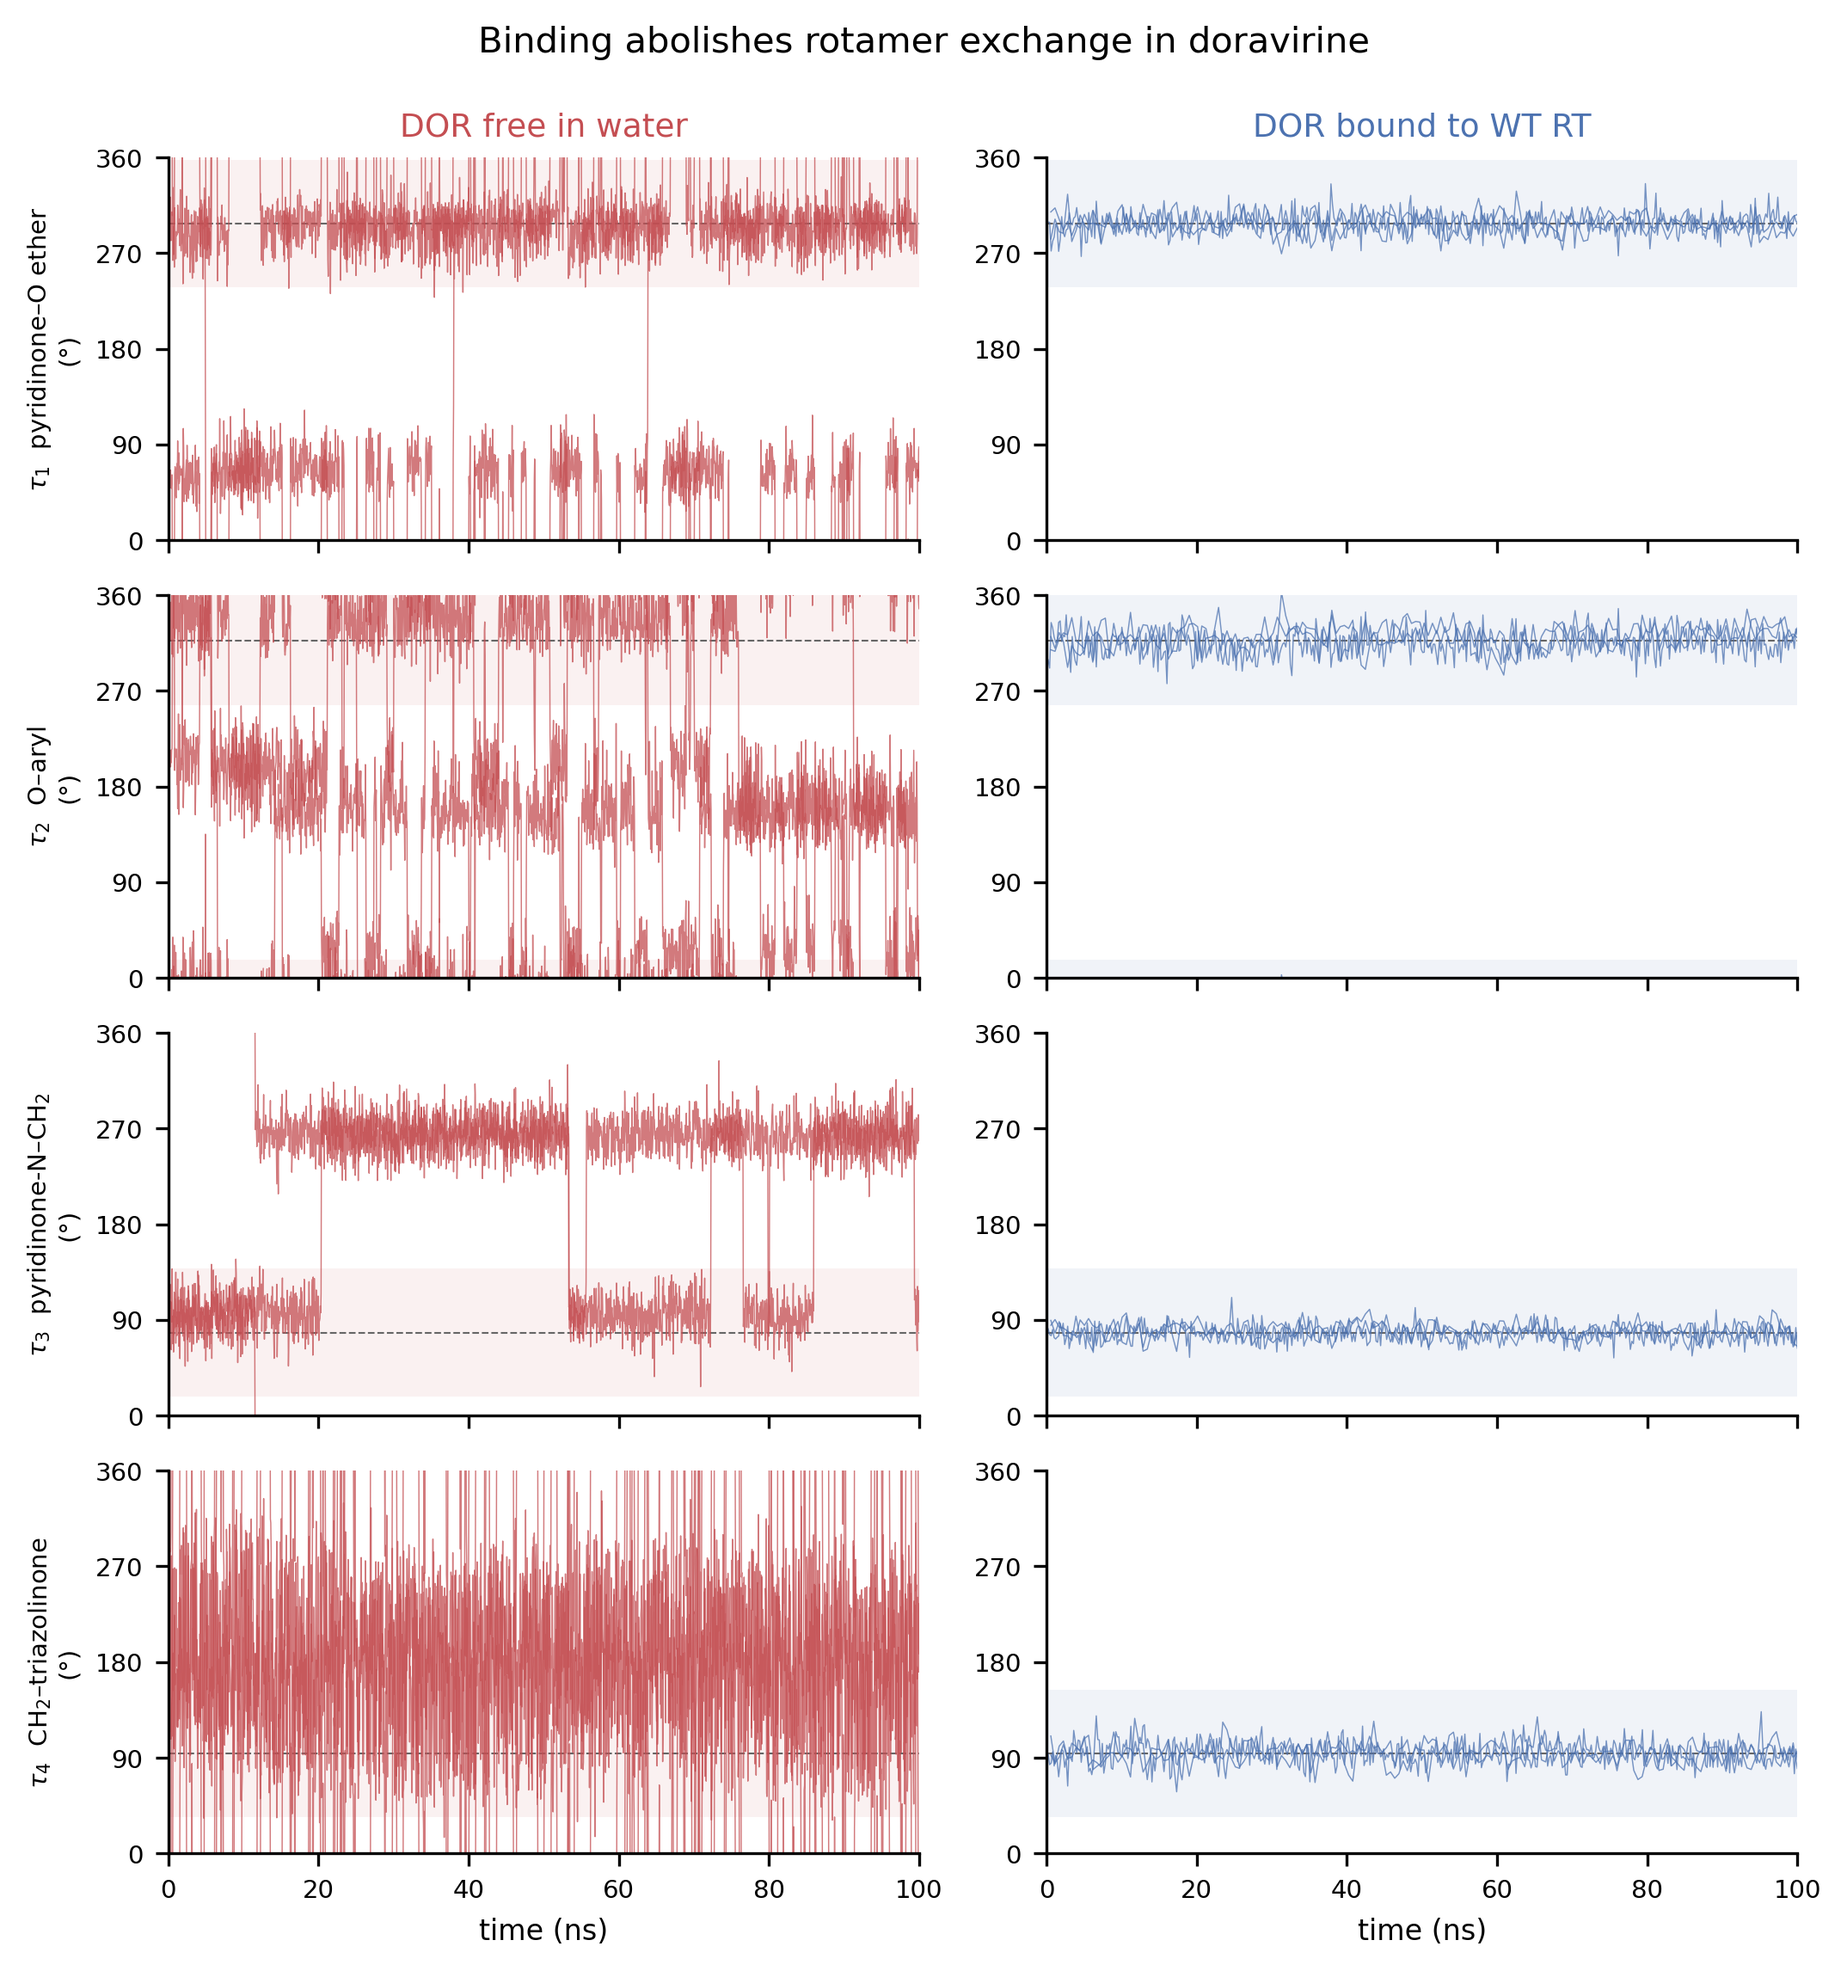
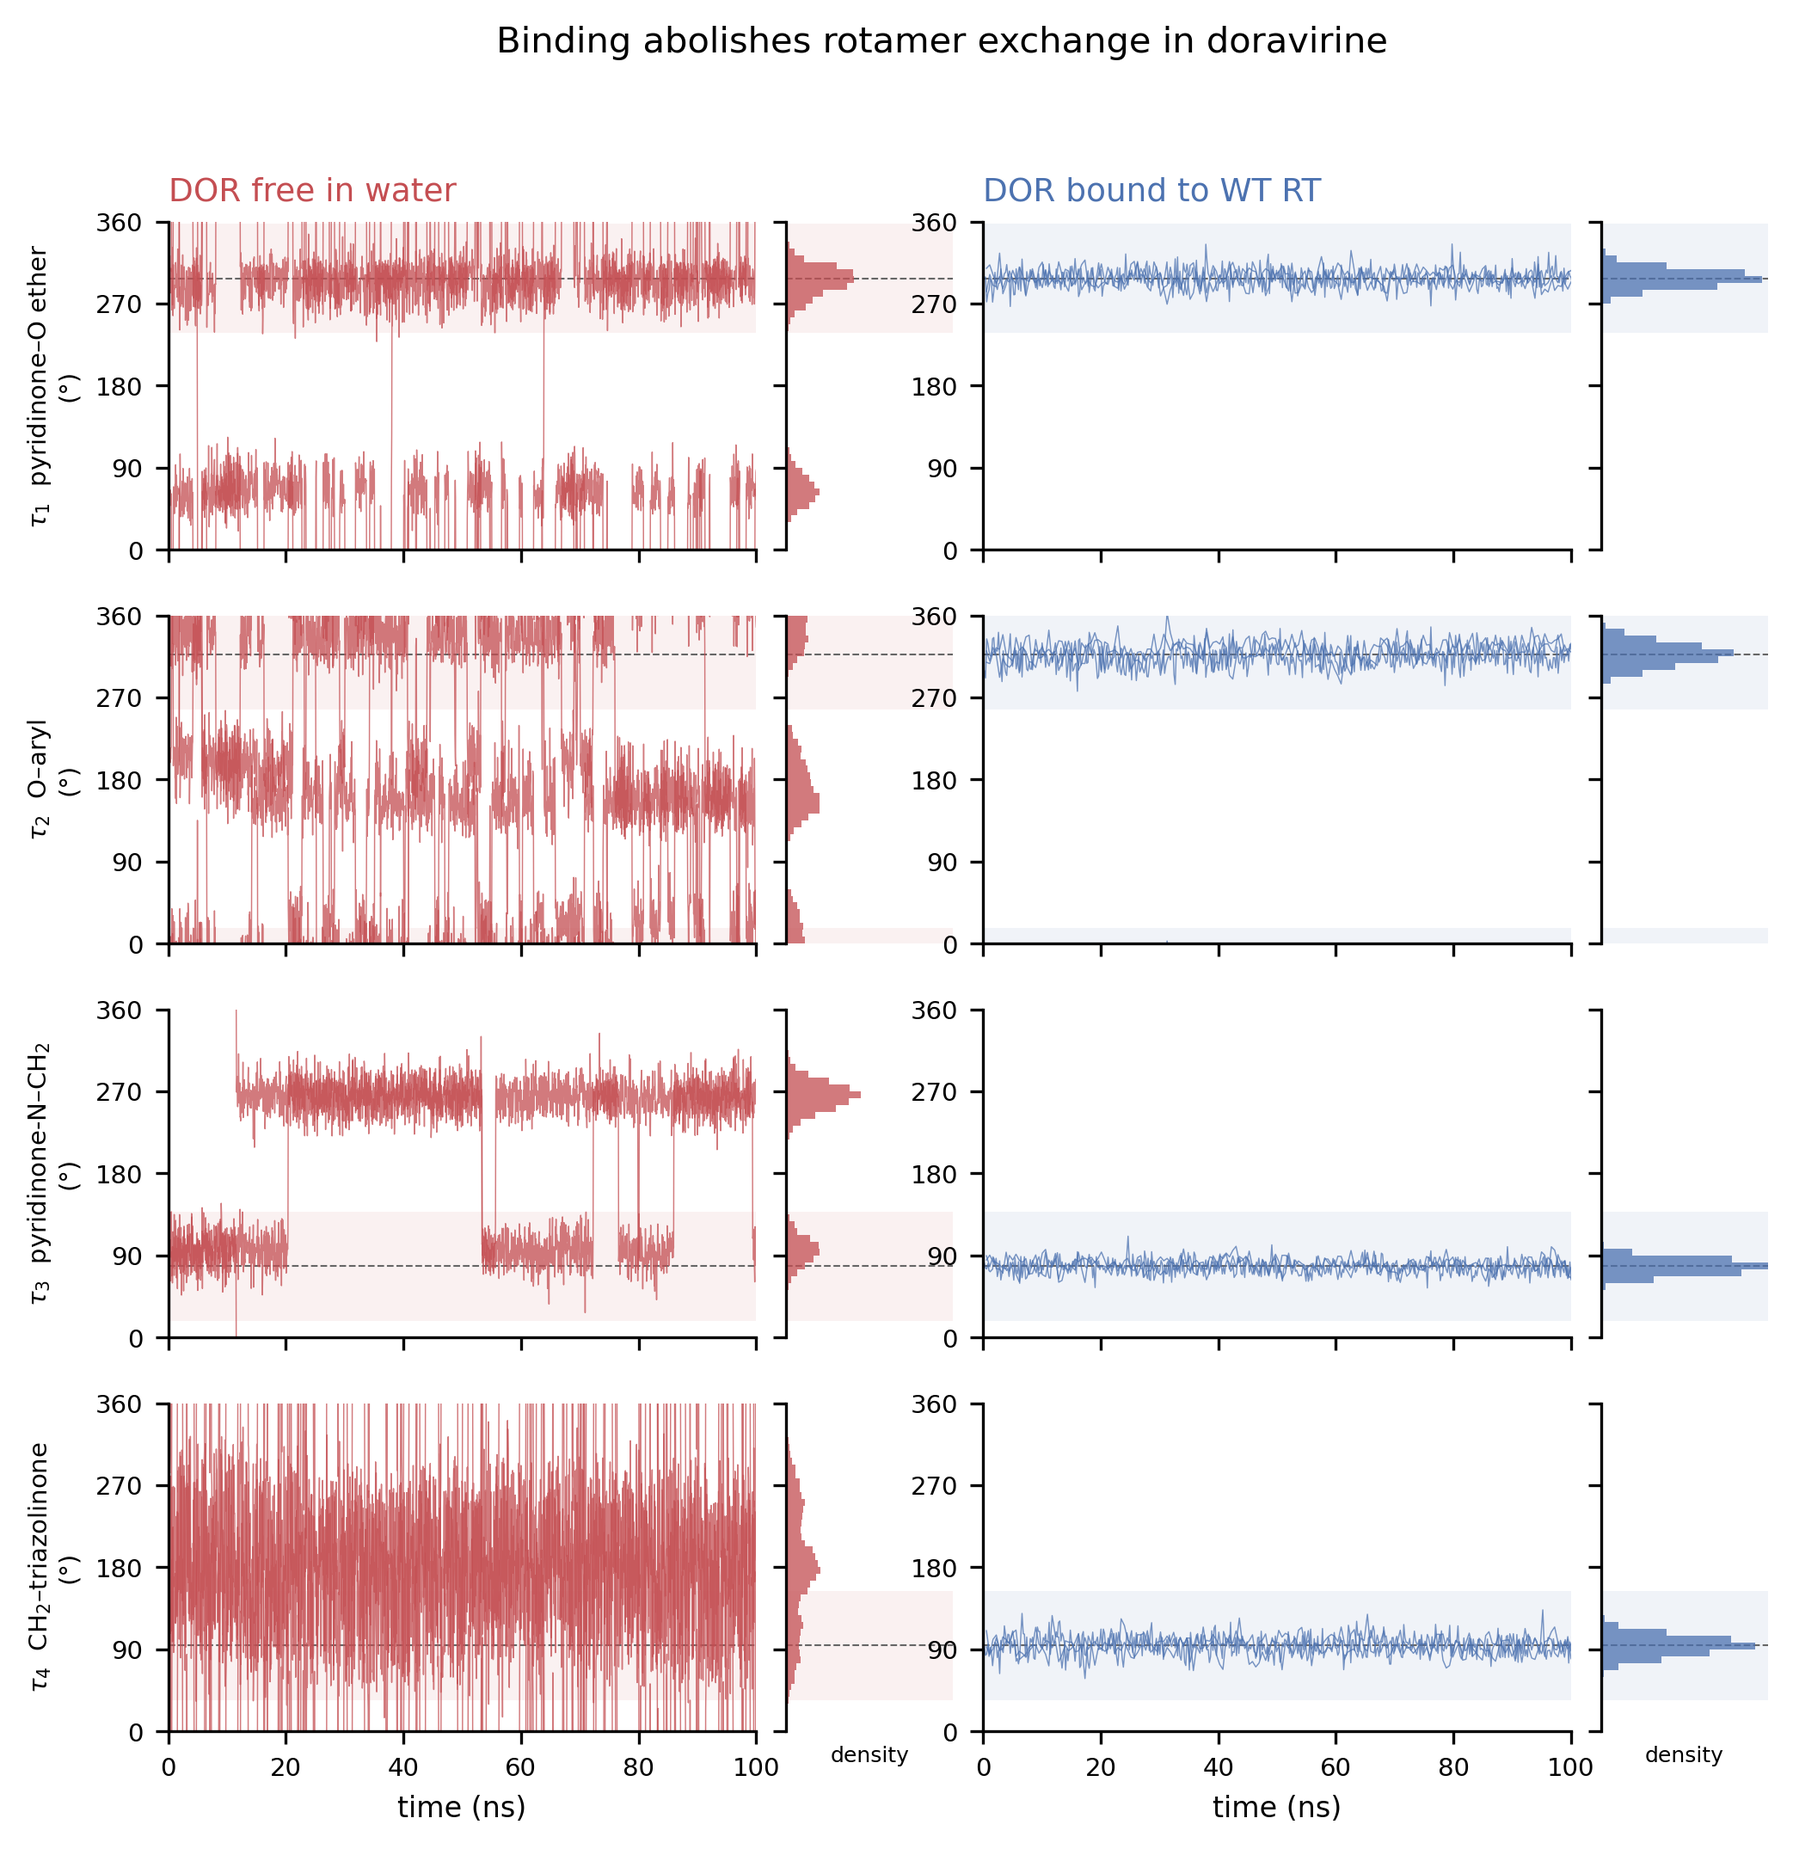
Back to wrapped traces, each with its distribution projected beside it
The unwrapped version read well but spent the periodicity to get there: an
angle that returns to the same physical state plots hundreds of degrees away,
and tau4's ~14 net turns put identical conformations 5000 degrees apart. The
wrapped axis keeps one period, so equal angles sit at equal heights.

Each trace now has its own histogram immediately to its right on a shared y
axis, drawn horizontally, so the marginal is literally the trace projected onto
the angle axis.

The two marginals in a row share a density scale. Letting them autoscale --
tried first -- draws the bound spike and the much flatter free distribution at
the same height, which hides the concentration the figure exists to show. Same
failure mode as the per-panel autoscaling in the unwrapped version.

--trace cylinder still draws unwrapped copies once per turn on the one-period
axis, for when a continuous line matters more than the ink it costs.

diff --git a/src/nnrti/cli/plot_dor_torsion_kinetics.py b/src/nnrti/cli/plot_dor_torsion_kinetics.py
@@ -220,13 +220,11 @@ def main(argv: list[str] | None = None) -> int:
                    help="Lower edge of the plotted period. positive: 0-360 "
                         "(default). signed: -180..180. auto: per-torsion cut at "
                         "the emptiest angle.")
-    p.add_argument("--trace", choices=("unwrap", "cylinder", "broken"),
-                   default="unwrap",
-                   help="unwrap (default): angles unrolled so a trace is never "
-                        "cut, with the row's y-range shared between columns. "
-                        "cylinder: unwrapped but drawn once per turn on a "
-                        "one-period axis, so traces leave the top and re-enter "
-                        "at the bottom. broken: wrapped, line cut at the seam.")
+    p.add_argument("--trace", choices=("broken", "cylinder"), default="broken",
+                   help="broken (default): wrapped to one period, line cut at "
+                        "the seam. cylinder: unwrapped but drawn once per turn "
+                        "on the same one-period axis, so a trace leaves the top "
+                        "and re-enters at the bottom instead of breaking.")
     args = p.parse_args(argv)
 
     plt = _style()
@@ -254,62 +252,79 @@ def main(argv: list[str] | None = None) -> int:
     print(f"angle frame {args.angle_frame!r}: " + ", ".join(
         f"{t} cut {cuts[t]:.0f}° ({seam[t]} seam crossings/100 ns free)" for t in TAUS))
 
-    # ---------------- Figure 1: trajectories ----------------
-    fig, axes = plt.subplots(4, 2, figsize=(7.2, 7.6), sharex="col")
+    # ---------------- Figure 1: trajectories, each with its projection -------
+    # Four column pairs: a trace and, immediately right of it on a shared y
+    # axis, the same data projected onto the angle axis. The marginal is the
+    # trace's own histogram, so what the eye integrates vertically is exactly
+    # what the bars show.
+    fig, axes = plt.subplots(
+        4, 4, figsize=(8.0, 7.6), sharex="col",
+        gridspec_kw={"width_ratios": [3.0, 0.85, 3.0, 0.85], "wspace": 0.08})
     for i, t in enumerate(TAUS):
         c, cut = ref[t], cuts[t]
         lo, hi = cut, cut + 360.0
         c_plot = float(_wrap(np.array([c]), cut)[0])
+        bands = _basin_bands(c_plot, BASIN_HALF_WIDTH, lo, hi)
+        bins = np.arange(lo, hi + 0.1, 7.5)
+        peak = {}
         for j, (which, g_all, colour, dts) in enumerate([
-                ("DOR free in water", sol, C_FREE, {r: dt_free for r in sol.replicate.unique()}),
+                ("DOR free in water", sol, C_FREE,
+                 {r: dt_free for r in sol.replicate.unique()}),
                 ("DOR bound to WT RT", wt, C_BOUND, dt_wt)]):
-            ax = axes[i, j]
-            # The bound basin is a band about the bound value; if it runs off an
-            # edge of the plotted range the remainder is drawn at the other edge,
-            # because the axis is a circle cut open at `cut`.
-            if args.trace != "unwrap":
-                for b0, b1 in _basin_bands(c_plot, BASIN_HALF_WIDTH, lo, hi):
-                    ax.axhspan(b0, b1, color=colour, alpha=0.08, lw=0)
-                ax.axhline(c_plot, color="0.4", lw=0.5, ls="--", zorder=1)
+            ax, axm = axes[i, 2 * j], axes[i, 2 * j + 1]
+            for a in (ax, axm):
+                # The basin is a band about the bound value; where it runs off
+                # an edge the remainder is drawn at the other, because the axis
+                # is a circle cut open at `cut`.
+                for b0, b1 in bands:
+                    a.axhspan(b0, b1, color=colour, alpha=0.08, lw=0)
+                a.axhline(c_plot, color="0.4", lw=0.5, ls="--", zorder=1)
+
+            pooled = []
             for rep, g in g_all.groupby("replicate"):
                 g = g.sort_values("frame")
                 dt = dts.get(rep) or dt_free
                 time_ns = (np.arange(len(g)) + 1) * dt
-                raw = g[t].to_numpy()
+                ang = _wrap(g[t].to_numpy(), cut)
+                pooled.append(ang)
                 if args.trace == "cylinder":
-                    segs = _cylinder_copies(time_ns, _wrap(raw, cut), lo, hi)
-                elif args.trace == "unwrap":
-                    segs = [(time_ns,
-                             np.rad2deg(np.unwrap(np.deg2rad(raw)))
-                             + (cut - _branch_cut("signed")))]
+                    segs = _cylinder_copies(time_ns, ang, lo, hi)
                 else:
-                    segs = [_break_at_seam(time_ns, _wrap(raw, cut))]
+                    segs = [_break_at_seam(time_ns, ang)]
                 for xs, ys in segs:
                     ax.plot(xs, ys, lw=0.35, alpha=0.75, color=colour,
                             rasterized=True)
-            if args.trace != "unwrap":
-                ax.set_ylim(lo, hi)
-                ax.set_yticks(np.arange(lo, hi + 1, 90))
+
+            dens, _, _ = axm.hist(np.concatenate(pooled), bins=bins, density=True,
+                                   orientation="horizontal", color=colour,
+                                   alpha=0.75, lw=0)
+            peak[j] = float(np.max(dens))
+
+            for a in (ax, axm):
+                a.set_ylim(lo, hi)
+            ax.set_yticks(np.arange(lo, hi + 1, 90))
             ax.set_xlim(0, 100)
+            axm.set_yticks(np.arange(lo, hi + 1, 90))
+            axm.set_yticklabels([])
+            axm.set_xticks([])
+            axm.spines["bottom"].set_visible(False)
             if i == 0:
-                ax.set_title(which, color=colour)
+                ax.set_title(which, color=colour, loc="left")
             if j == 0:
                 ax.set_ylabel(f"{TAU_LABELS[t]}\n(°)", fontsize=7)
             if i == 3:
                 ax.set_xlabel("time (ns)")
-        if args.trace == "unwrap":
-            # Share the row's y-range across columns. Letting each panel
-            # autoscale shows the bound trace's ~50 degrees of jitter at the
-            # same visual amplitude as the free trace's hundreds, which inverts
-            # the result the figure exists to show.
-            ylo = min(axes[i, j].get_ylim()[0] for j in (0, 1))
-            yhi = max(axes[i, j].get_ylim()[1] for j in (0, 1))
-            for j in (0, 1):
-                axes[i, j].set_ylim(ylo, yhi)
-    fig.suptitle("Binding abolishes rotamer exchange in doravirine", y=0.995, fontsize=10)
-    fig.tight_layout()
+                axm.set_xlabel("density", fontsize=6)
+        # One density scale for the row. Letting each marginal autoscale draws
+        # the bound peak and the much flatter free distribution at the same
+        # height, which hides the concentration the figure is about.
+        xmax = max(peak.values()) * 1.08
+        for j in (0, 1):
+            axes[i, 2 * j + 1].set_xlim(0, xmax)
+    fig.suptitle("Binding abolishes rotamer exchange in doravirine", fontsize=10)
+    fig.tight_layout(rect=(0, 0, 1, 0.98))
     args.output_dir.mkdir(parents=True, exist_ok=True)
-    suffix = "" if args.trace == "unwrap" else f"_{args.trace}"
+    suffix = "" if args.trace == "broken" else f"_{args.trace}"
     f1 = args.output_dir / f"dor_torsion_trajectories{suffix}.png"
     fig.savefig(f1, dpi=300)
     plt.close(fig)
